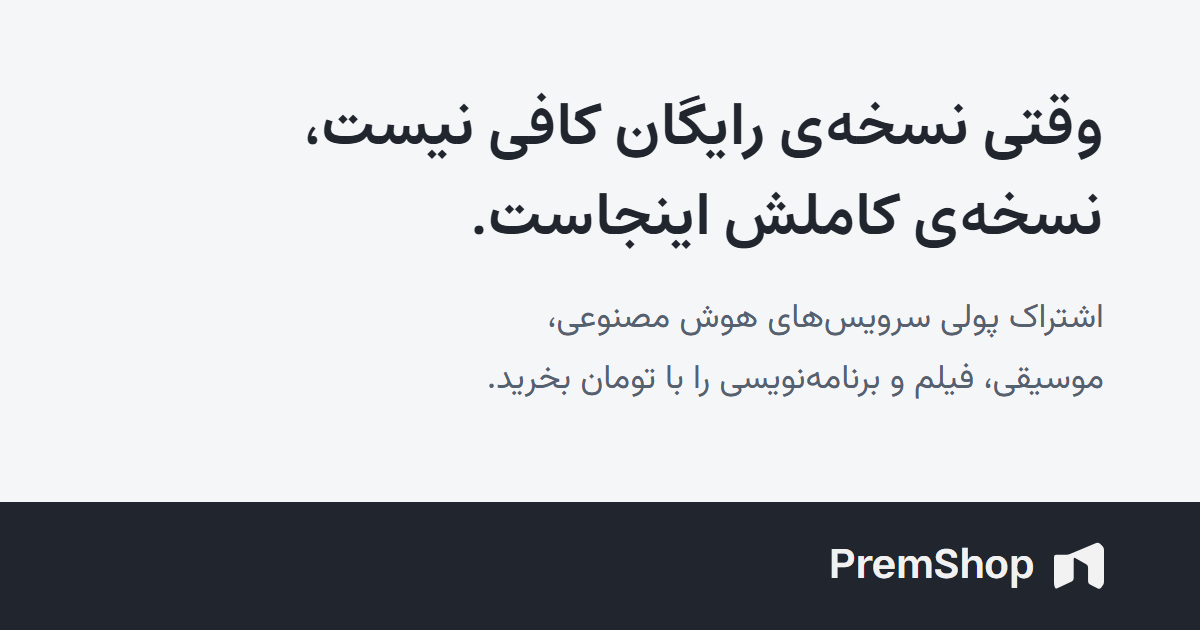
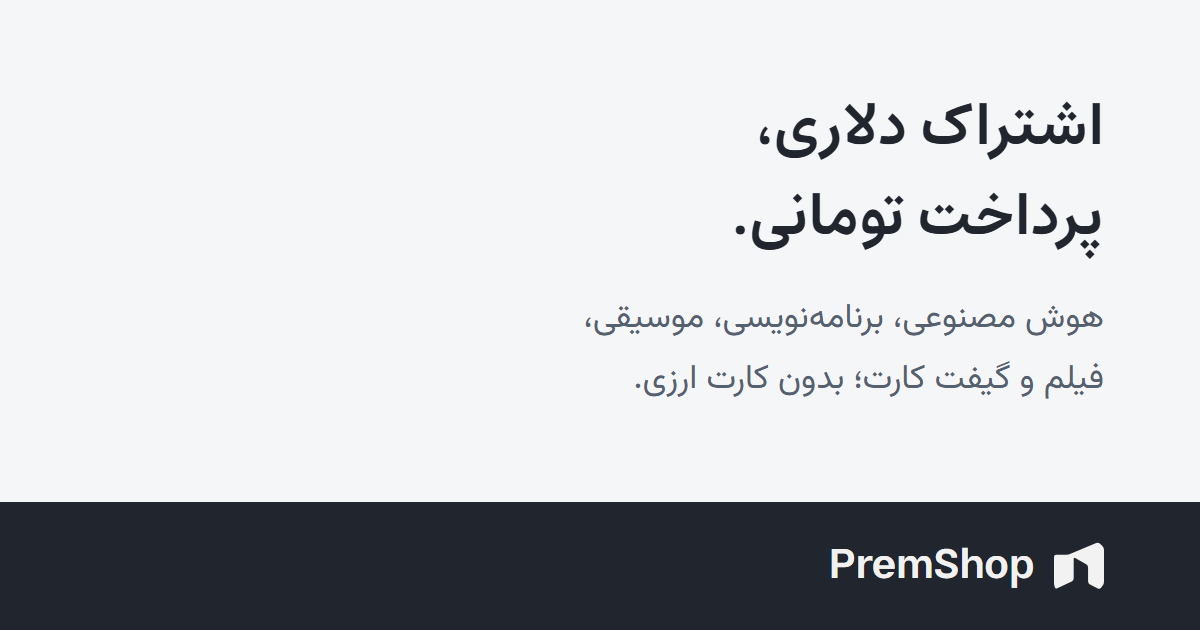
Lead the home page with the owner's headline and a real discount
The owner chose «اشتراک دلاری، پرداخت تومانی.» from four drafted
options and asked for cheaper too. Cheaper than whom is a claim one
competitor's price could break, so the hero states the deepest running
discount from the catalogue, linked to the offers, and shows nothing
when nothing is discounted. The line above the headline names the range;
the lead says a foreign card is not needed and terms show before
paying. Cobalt now marks only what can be pressed: the headline and
that line turn ink and grey, as the owner suggested, which leaves the
primary button the hero's one blue mass. The sharing card follows.

diff --git a/templates/catalog/home.html b/templates/catalog/home.html
@@ -3,7 +3,7 @@
 {% block meta_description %}خرید اشتراک چت جیپیتی، جمینای و سرویسهای آنلاین در پرمشاپ؛ همراه با مشخصات حساب، مدت اشتراک و شرایط تحویل هر محصول.{% endblock %}
 {% block content %}
 <section class="v-hero"><div class="v-wrap v-hero__inner">
-  <div class="v-hero__copy"><p class="v-hero__eyebrow">اشتراک و گیفت کارت سرویسهای خارجی</p><h1>وقتی نسخهی رایگان کافی نیست،<br><span class="v-hero__highlight">نسخهی کاملش اینجاست.</span></h1><p class="v-hero__lead">اشتراک پولی سرویسهای هوش مصنوعی، موسیقی، فیلم و برنامهنویسی را با تومان بخرید.</p><ul class="v-hero__proof">{% for promise in promises %}<li>{% include 'storefront/icon.html' with name='clock' %}{{ promise.text }}</li>{% endfor %}<li>{% include 'storefront/icon.html' with name='telegram' %}پشتیبانی {{ support.hours }}</li></ul><div class="v-hero__actions"><a class="v-button" href="#products">دیدن محصولات{% include 'storefront/icon.html' with name='arrow' %}</a><a class="v-hero__help" href="{{ support.telegram_url }}" rel="noopener">{% include 'storefront/icon.html' with name='telegram' %}راهنمایی در تلگرام</a></div></div>
+  <div class="v-hero__copy"><p class="v-hero__eyebrow">هوش مصنوعی، برنامهنویسی، موسیقی، فیلم و گیفت کارت</p><h1>اشتراک دلاری،<br>پرداخت تومانی.</h1><p class="v-hero__lead">بدون کارت ارزی بخرید و زمان تحویل و شرایط هر محصول را پیش از پرداخت ببینید.</p>{% if offer_peak %}<a class="v-hero__deal" href="#offers">{% include 'storefront/icon.html' with name='tag' %}تا {{ offer_peak|fa_digits }}٪ تخفیف روی {{ discounted|length|fa_digits }} محصول</a>{% endif %}<ul class="v-hero__proof">{% for promise in promises %}<li>{% include 'storefront/icon.html' with name='clock' %}{{ promise.text }}</li>{% endfor %}<li>{% include 'storefront/icon.html' with name='telegram' %}پشتیبانی {{ support.hours }}</li></ul><div class="v-hero__actions"><a class="v-button" href="#products">دیدن محصولات{% include 'storefront/icon.html' with name='arrow' %}</a><a class="v-hero__help" href="{{ support.telegram_url }}" rel="noopener">{% include 'storefront/icon.html' with name='telegram' %}راهنمایی در تلگرام</a></div></div>
   <div class="v-service-cloud" data-hero-scene>
     <nav aria-label="انتخاب سرویس" aria-describedby="service-hint"><div class="nebula"><img class="v-orbit-scene" src="{% static 'img/constellation.svg' %}" alt="" aria-hidden="true" width="600" height="420">{% include 'storefront/service-effects.html' %}{% for item in shelf %}<a class="nebula__item" data-service="{{ item.slug }}" href="{% url 'product' item.slug %}"><span class="v-service-mark">{% if item.image %}<img src="{{ item.image.url }}" width="54" height="54" alt="">{% else %}<span class="nebula__mono" aria-hidden="true">{{ item.name|slice:':1' }}</span>{% endif %}</span><span class="v-service-name"><bdi>{{ item.name }}</bdi></span></a>{% endfor %}</div></nav>
     <div class="v-scene-footer"><div class="v-scene-caption"><p id="service-hint">سرویس رو انتخاب کنید؛ مدت و قیمت رو ببینید.</p></div><div class="v-scene-tools"><button class="v-orbit-toggle" type="button" data-orbit-toggle hidden>{% include 'storefront/icon.html' with name='pause' %}<span>توقف حرکت</span></button><div class="v-orbit-controls" hidden data-orbit-controls><button type="button" data-orbit-prev aria-label="سرویسهای قبلی">{% include 'storefront/icon.html' with name='arrow' %}</button><bdi dir="ltr" data-orbit-range aria-live="polite" aria-atomic="true"></bdi><button type="button" data-orbit-next aria-label="سرویسهای بعدی">{% include 'storefront/icon.html' with name='arrow' %}</button></div></div></div>
@@ -14,7 +14,7 @@
   <section class="v-discover" aria-labelledby="discover-title"><div><h2 id="discover-title">دستهبندی محصولات</h2></div><div class="v-category-links">{% for cat in nav_categories %}<a href="{% url 'category' cat.slug %}"><span class="v-category-icon">{% include 'storefront/category-icon.html' with slug=cat.slug %}</span><span>{{ cat.name }}<small>{{ cat.product_count|fa_digits }} محصول</small></span>{% include 'storefront/icon.html' with name='arrow' %}</a>{% endfor %}</div></section>
 </div>
 {% if discounted %}
-<section class="v-offers-band"><div class="v-wrap v-section" data-rail aria-labelledby="offers-title">
+<section class="v-offers-band" id="offers"><div class="v-wrap v-section" data-rail aria-labelledby="offers-title">
   <div class="v-section__head"><div><h2 id="offers-title"><span class="v-section-mark">{% include 'storefront/icon.html' with name='tag' %}</span>تخفیفهای فعلی</h2><p>{{ discounted|length|fa_digits }} محصول</p></div>{% include 'storefront/controls.html'  %}</div>
   <div class="v-track" data-rail-track tabindex="0" aria-label="محصولات دارای تخفیف">{% for product in discounted %}{% include 'catalog/_card.html' with first=True %}{% empty %}<div class="v-empty">فعلاً محصولی برای فروش نداریم.</div>{% endfor %}</div>{% include 'storefront/meter.html' %}
 </div></section>

diff --git a/static/css/storefront.css b/static/css/storefront.css
@@ -174,13 +174,13 @@ main :is(.prose,.rich) a:any-link:hover{border-color:var(--v-accent);background:
 
 /* Compact both columns together so centering does not move whitespace below the copy. */
 .v-hero__inner{padding-block:20px}
-.v-hero h1{font-size:clamp(30px,2.75vw,40px);line-height:1.45;text-wrap:balance}
+.v-hero h1{font-size:clamp(32px,3.6vw,48px);line-height:1.45;text-wrap:balance}
 .v-hero__lead{max-width:430px;text-wrap:pretty}
-.v-hero__highlight{color:var(--v-accent)}
 .pcard__description{font-size:12px;line-height:1.9;color:var(--v-text);margin:8px 0;display:-webkit-box;-webkit-box-orient:vertical;-webkit-line-clamp:2;overflow:hidden}
 .v-hero__copy .v-hero__lead{margin-bottom:12px}
-.v-hero__eyebrow{margin:0 0 10px;font-size:14px;font-weight:600;line-height:1.8;color:var(--v-accent)}
+.v-hero__eyebrow{margin:0 0 10px;font-size:14px;font-weight:600;line-height:1.8;color:var(--v-text)}
 .v-hero__proof{display:flex;flex-direction:column;align-items:flex-start;gap:6px;margin:0 0 26px;padding:0;list-style:none;font-size:13px;line-height:1.8;color:var(--v-text)}
+.v-hero__deal{display:inline-flex;align-items:center;gap:6px;min-height:36px;margin:0 0 18px;padding:4px 12px;border-radius:999px;background:var(--v-mint);color:var(--v-accent);font-size:13px;font-weight:600;line-height:1.6}.v-hero__deal:hover{text-decoration:underline}.v-hero__deal .v-icon{flex:none;width:16px;height:16px}
 .v-hero__proof li{display:inline-flex;align-items:center;gap:7px}.v-hero__proof .v-icon{flex:none;width:18px;height:18px;color:var(--v-accent)}
 .v-hero__actions{display:flex;align-items:center;flex-wrap:wrap;gap:14px 22px}
 .v-hero__actions .v-button{gap:20px;min-height:44px}

diff --git a/apps/catalog/views.py b/apps/catalog/views.py
@@ -79,6 +79,10 @@ def home(request: HttpRequest) -> HttpResponse:
     # on its own — a shop that advertises an expired discount has done worse
     # than not advertising one.
     discounted = [p for p in featured if p.discounted_plans]
+    # The hero's "cheaper" is this number, not an adjective nothing backs.
+    offer_peak = max(
+        (plan.discount_percent for p in discounted for plan in p.discounted_plans), default=0
+    )
     # Grouped by department rather than one flat grid, which also retired the
     # separate «دستهبندیها» block above it: that block and this one listed
     # the same four departments in the same order, four hundred pixels apart.
@@ -93,6 +97,7 @@ def home(request: HttpRequest) -> HttpResponse:
             "featured": featured,
             "shelf": shelf,
             "discounted": discounted,
+            "offer_peak": offer_peak,
             "by_category": by_category,
             "quick_plan_products": featured,
             "structured_data": website_schema(),

diff --git a/apps/catalog/tests/test_cards.py b/apps/catalog/tests/test_cards.py
@@ -146,3 +146,15 @@ def test_a_category_page_does_not_repeat_its_name_on_every_card(client, offers):
     body = client.get(reverse("category", args=[offers.category.slug])).content.decode()
     assert 'class="pcard__cat"' not in body
     assert 'class="pcard__cat"' in client.get(reverse("search") + "?q=Claude").content.decode()
+
+
+def test_the_hero_states_the_deepest_running_discount_as_a_number(client, offers):
+    """The owner asked the hero to say "cheaper"; it says by how much, from the
+    catalogue, and says nothing when nothing is discounted."""
+    hero = client.get(reverse("home")).content.decode().split('class="v-hero__actions"', 1)[0]
+    assert '<a class="v-hero__deal" href="#offers">' in hero
+    assert "تا ۱۰٪ تخفیف روی ۱ محصول" in hero
+    assert "ارزانتر" not in hero
+    offers.plans.update(promo_price=None, promo_ends_at=None)
+    hero = client.get(reverse("home")).content.decode().split('class="v-hero__actions"', 1)[0]
+    assert "v-hero__deal" not in hero

diff --git a/apps/catalog/tests/test_storefront_experience.py b/apps/catalog/tests/test_storefront_experience.py
@@ -5,7 +5,7 @@ def test_shared_shell_names_the_brand_and_keeps_real_destinations(client, db):
     response = client.get(reverse("home"))
     body = response.content.decode()
     hero = body.split('class="v-hero__copy"', 1)[1].split('class="v-hero__actions"', 1)[0]
-    assert "وقتی نسخهی رایگان کافی نیست" in hero
+    assert "اشتراک دلاری" in hero and "پرداخت تومانی" in hero
     # The owner's ruling: the home page introduces the shop, never one product.
     assert not any(name in hero for name in ("ChatGPT", "Gemini", "Claude", "Spotify"))
     assert "اشتراک ابزارهای هوش مصنوعی" in body

diff --git a/apps/core/management/commands/render_share_images.py b/apps/core/management/commands/render_share_images.py
@@ -29,8 +29,8 @@ STATIC = Path(settings.BASE_DIR) / "static"
 OUT = STATIC / "img"
 
 # The home page's headline and lead, as the page prints them today.
-HEADLINE = "وقتی نسخهی رایگان کافی نیست،\nنسخهی کاملش اینجاست."
-LEAD = "اشتراک پولی سرویسهای هوش مصنوعی، موسیقی، فیلم و برنامهنویسی را با تومان بخرید."
+HEADLINE = "اشتراک دلاری،\nپرداخت تومانی."
+LEAD = "هوش مصنوعی، برنامهنویسی، موسیقی، فیلم و گیفت کارت؛ بدون کارت ارزی."
 
 
 def _font(name: str) -> str:

diff --git a/docs/design-language.md b/docs/design-language.md
@@ -300,4 +300,4 @@ The cobalt/graphite palette, fonts and pale brand artwork remain. Icons use the 
 
 **Product copy — 2026-10-27.** Name the service and a concrete use: file analysis and image creation for ChatGPT Plus, research with Gemini, coding tools with Claude Pro, Spotify downloads, or YouTube background playback. Explain paid capacity without promising unlimited use. Product introductions and benefit sections stay editable in the catalogue; SKU, account type, storage, delivery and coverage come from its verified fields. The home headline names ChatGPT Plus and text/file/code use; the footer describes the actual product range. Avoid abstract lifestyle slogans, personal founder stories and unverified proof.
 
-**Home headline — 2026-10-27, owner's ruling.** The home hero introduces the shop as a whole and never headlines one product or its features. It carries a short line naming what the shop sells, a headline about the moment a buyer needs a paid plan («وقتی نسخهی رایگان کافی نیست، نسخهی کاملش اینجاست.»), one sentence on what is sold and how it is paid for, and only site-wide facts: the promise in `apps/catalog/promises.py` and the support hours. The footer's help band is general for the same reason. This supersedes the product-copy clause above that put ChatGPT Plus in the home headline.
+**Home headline — 2026-10-27, owner's ruling.** The home hero introduces the shop as a whole and never headlines one product or its features. It carries a short line naming the range, the headline the owner chose on 2026-10-27 from four drafted options («اشتراک دلاری، پرداخت تومانی.»), one sentence on buying without a foreign card and seeing each product's terms before paying, the current deepest discount when there is one (a number from the catalogue, never «ارزانتر»), and only site-wide facts: the promise in `apps/catalog/promises.py` and the support hours. The footer's help band is general for the same reason. This supersedes the product-copy clause above that put ChatGPT Plus in the home headline. Cobalt marks what can be pressed (buttons, links, the discount chip and icons); bold text that cannot be pressed stays ink or grey, so the primary button is the one blue mass in the hero (owner, 2026-10-27).
